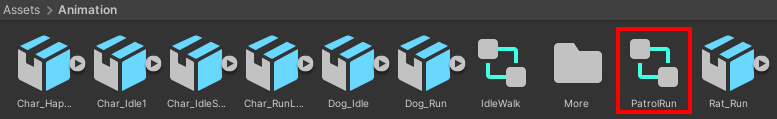
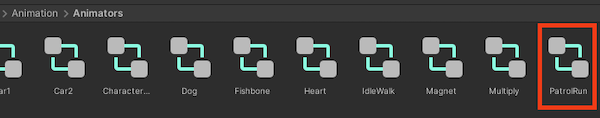
Small fixes after review

diff --git a/en/step_4.md b/en/step_4.md
@@ -66,12 +66,12 @@ Open the **PatrolController** script and create a `patrolSpeed` variable. Create
 --- code ---
 ---
 language: cs
-filename: DogController.cs
+filename: PatrolController.cs
 line_numbers: true
 line_number_start: 5
 line_highlights: 7-9
 ---
-public class DogController : MonoBehaviour
+public class PatrolController : MonoBehaviour
 {
     public float patrolSpeed = 3.0f;
     public float minPosition = -4.0f;
@@ -125,7 +125,7 @@ Track the movement of the Dog. If the patrol length is not right for your scene,
 
 ![The Min Position and Max Position public variables in the Inspector.](images/position-variables.png)
 
-**Tip:** Remember that variables edited in Play mode are not saved after exiting Play mode so make a note of the positions you like best then exit Play mode and go back to your script to update the values in your `minPosition` and `maxPosition` variables. Save your script then return to the Unity Editor. 
+**Tip:** Remember that variables edited in Play mode are not saved after exiting Play mode so make a note of the positions you like best then exit Play mode and set the variables in the Inspector.
 
 ![Game view showing the Player waiting for the dog to pass before collecting the star then waiting for the dog to pass before exiting the enclosed star hiding place.](images/dog-patrol-game.gif)
 
@@ -135,9 +135,9 @@ Now that the position and path of the patrolling dog is decided, it's time to ma
 
 --- task ---
 
-In the Project window, navigate to the **Animation** folder. Right-click and go to **Create** then select **Animation Controller** and name your new animation controller `PatrolRun`.
+In the Project window, navigate to the **Animation** folder and then the **Animator** folder. Right-click and go to **Create** then select **Animation Controller** and name your new animation controller `PatrolRun`.
 
-![The Animation folder in the Project window with the new PatrolRun animator added alongside the IdleWalk animator from Explore a 3D world project.](images/patrol-animator.png)
+![The Animators folder in the Project window with the new PatrolRun animator added alongside the IdleWalk animator from Explore a 3D world project.](images/patrol-animator.png)
 
 --- /task ---
 

diff --git a/en/step_3.md b/en/step_3.md
@@ -37,7 +37,7 @@ Double-click on the **GamemasterController** script to open it in your script ed
 
 --- code ---
 ---
-language: csharp
+language: cs
 filename: GamemasterController.cs
 line_numbers: true
 line_number_start: 1
@@ -186,7 +186,7 @@ Save your script and return to the Unity Editor.
 
 --- task ---
 
-From the Hierarchy window, select the **Button GameObject**, then go to the Inspector window **On Click ()** property and click on the **+**. 
+From the Hierarchy window, select the **Button GameObject** inside of **Gamemaster** and **Canvas**, then go to the Inspector window **On Click ()** property and click on the **+**. 
 
 ![The OnClick component for the Button in the Inspector window with '+' icon highlighted in the botton right corner.](images/add-on-click.png)
 
@@ -235,7 +235,7 @@ public class StarPlayer : MonoBehaviour
 
 Change the code in your `Update` method to only update the time if the button has been pressed and stars are less than three.
 
-`Time.time` starts when the game begins. Minus the `startTime` from `Time.time` to display the elapsed time since the button was pressed:
+`Time.time` starts when the game begins. Subtract the `startTime` from `Time.time` to display the elapsed time since the button was pressed:
 
 --- code ---
 ---
@@ -264,6 +264,8 @@ Save your script and return to the Unity Editor.
 Select the **Player** and go to the **Star Player (script)** component. Click on the circle next to Gamemaster and choose the **Gamemaster GameObject**: 
 
 ![The Inspector window with 'Gamemaster' showing in the 'Gamemaster' field for the Star Player script.](images/Npc-variable.png)
+
+This will add your Gamemaster's controller script to your player's `StarPlayer` script.
 
 --- /task ---
 

diff --git a/en/step_5.md b/en/step_5.md
@@ -65,7 +65,7 @@ line_highlights: 7
 ---
 public class FollowController : MonoBehaviour
 {
-    public GameObject Player;
+    public GameObject layer;
 
 --- /code ---
 
@@ -228,7 +228,7 @@ Animation Controllers can have more than one animation. The Follower Dog will ne
 
 --- task ---
 
-In the Project window, select the **Animation** folder and right-click then create a new **Animation Controller** called `FollowerMove`. 
+In the Project window, select the **Animators** folder inside of **Animation**. Right-click then create a new **Animation Controller** called `FollowerMove`. 
 
 Click on the **Dog** and go to the Inspector window. Drag the **FollowerMove** controller to the **Controller** property in the Animator component:
 

diff --git a/en/step_2.md b/en/step_2.md
@@ -155,7 +155,7 @@ Click on the drop-down arrow next to the Button GameObject and select the **Text
 
 ![The Game view showing the message aligned to the bottom left with writing across three lines and the button aligned to the bottom right.](images/message-and-button.png)
 
-Exit Play mode. 
+If you entered Play mode for testing make sure you Exit before changing the message and buttons positions. 
 
 --- /task ---
 

diff --git a/en/step_6.md b/en/step_6.md
@@ -171,7 +171,7 @@ language: csharp
 filename: AllyController.cs 
 line_numbers: true
 line_number_start: 6
-line_highlights: 8-11, 16-18
+line_highlights: 8, 9, 10, 11, 16, 17,18
 ---
 public class AllyController : MonoBehaviour
 {
